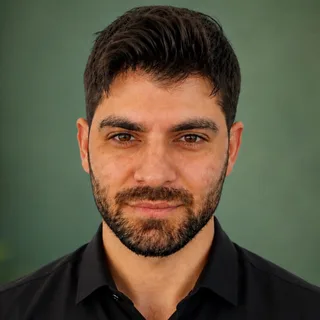
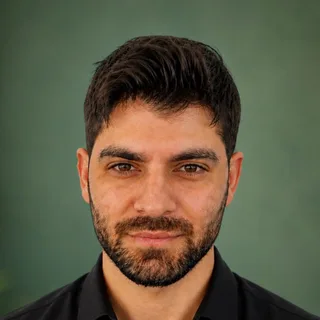
Alireza Makvandi: full name, headroom above the head
The crop sat 21 px above the hairline on a 1179 px square — three
percent, which at the 128 px the card actually renders is nothing, so
the head ran into the top edge of the tile. Measured where the hair
starts and cut the square to leave about a tenth of its height above it,
which is the framing the other two portraits already have.

Name in full, and the bio opens on the responsibility rather than the
position: "Har ansvar for den tekniske side af Kestro". English follows.

diff --git a/lib/company.ts b/lib/company.ts
@@ -131,14 +131,14 @@ const people: TeamMember[] = [
   },
   {
     id: "alireza",
-    name: "Alireza",
+    name: "Alireza Makvandi",
     role: {
       da: "Medstifter & teknisk ansvarlig",
       en: "Co-founder & Technical Director",
     },
     bio: {
-      da: "Står bag den tekniske side af Kestro: sitet, produktdata og den tekniske kontrol, før en maskine bliver præsenteret. Han sikrer, at specifikationerne er korrekte, at komponenterne er kompatible, og at det, der står på siden, stemmer overens med det, der indgår i tilbuddet.",
-      en: "Behind the technical side of Kestro: the site, the product data and the technical checks before a machine is presented. He makes sure the specifications are correct, that the components are compatible, and that what the site says matches what goes into the quote.",
+      da: "Har ansvar for den tekniske side af Kestro: sitet, produktdata og den tekniske kontrol, før en maskine bliver præsenteret. Han sikrer, at specifikationerne er korrekte, at komponenterne er kompatible, og at det, der står på siden, stemmer overens med det, der indgår i tilbuddet.",
+      en: "Responsible for the technical side of Kestro: the site, the product data and the technical checks before a machine is presented. He makes sure the specifications are correct, that the components are compatible, and that what the site says matches what goes into the quote.",
     },
   },
 ];
